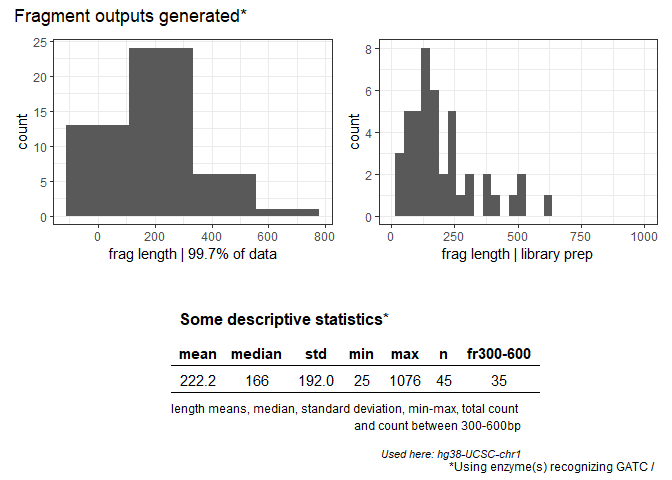
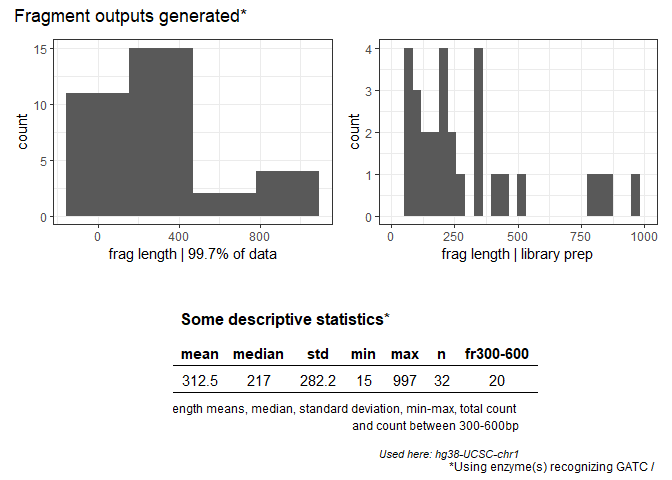
Reverted the name

diff --git a/README.md b/README.md
@@ -1,31 +1,31 @@
 
 <!-- README.md is generated from README.Rmd. Please edit that file -->
 
-# FROGmentor
+# FROGmentator
 
 <!-- badges: start -->
 <!-- badges: end -->
 
-The goal of FROGmentor is to calculate fragment lengths upon template
+The goal of FROGmentator is to calculate fragment lengths upon template
 DNA fragmentation with specific pattern recognizing, (restriction)
 enzymes
 
 ## Installation
 
-You can install the development version of FROGmentor from
+You can install the development version of FROGmentator from
 [GitHub](https://github.com/) with:
 
 ``` r
 # install.packages("devtools")
-devtools::install_github("pauliusbaltrusis/FROGmentor")
+devtools::install_github("pauliusbaltrusis/FROGmentator")
 ```
 
 ## Example
 
-This is a basic example which shows you what FROGmentor does:
+This is a basic example which shows you what FROGmentator does:
 
 ``` r
-library(FROGmentor)
+library(FROGmentator)
 #
 library(tidyverse)
 library(ggplot2)
@@ -36,7 +36,7 @@ pattern1<-'GATC'
 FROG_pal_output<-FROG_pal(my_DNA, pattern1)
 
 head(FROG_pal_output) # fragment length sizes
-#> [1]  87 124 188 400 245 520
+#> [1] 875 134 201 332 333 211
 ```
 
 ``` r
